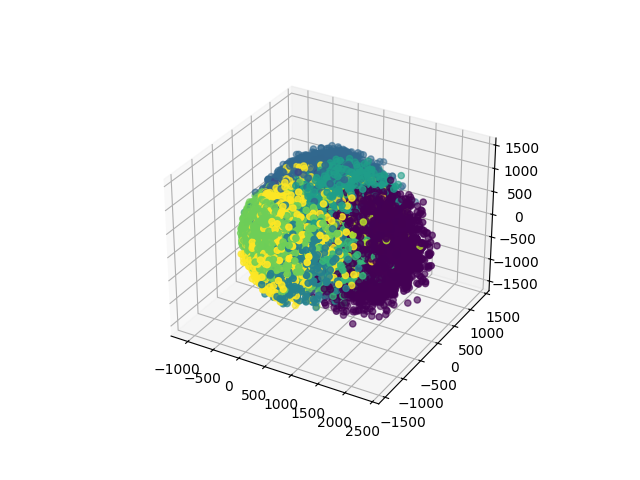
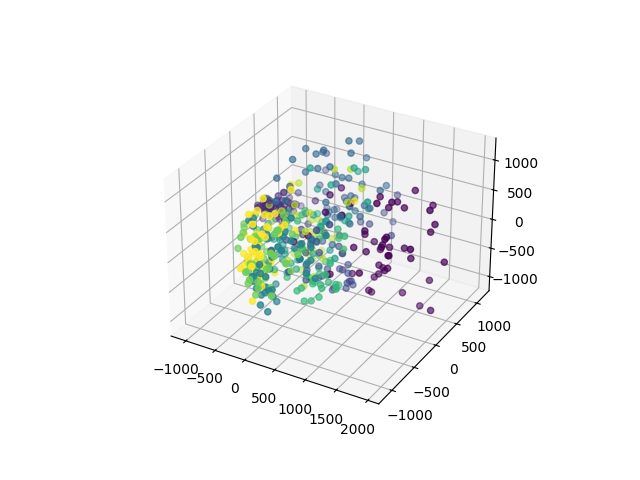
somewhat done with tsne

Changed region(s): [[0.25, 0.1875, 0.8438, 0.9062], [0.3125, 0.7812, 0.375, 0.8125], [0.25, 0.75, 0.3125, 0.7812]]

diff --git a/svm/svmnist.py b/svm/svmnist.py
@@ -1,8 +1,12 @@
 import matplotlib.pyplot as plt
 from sklearn import svm, preprocessing
 from sklearn.manifold import TSNE
+from sklearn.metrics import confusion_matrix, ConfusionMatrixDisplay
 import struct
+from matplotlib import offsetbox
 import numpy as np
+
+
 
 def extract_images(file_path):
     with open(file_path, 'rb') as file:
@@ -34,6 +38,7 @@ def flatten_images(list_img):
         flattened_list.append(tmp)
     return flattened_list
 
+
 def extract_labels(file_path):
     with open(file_path, 'rb') as file:
         magic_number = struct.unpack('>I', file.read(4))[0]  # Lire le magic number
@@ -46,18 +51,43 @@ def extract_labels(file_path):
         
         return labels
 
+
+def plot_embedding(X, images, labels, ax):
+    for digit in range(10):
+        ax.scatter(*X[np.array(labels) == digit].T,
+                   marker=f'${digit}$',
+                   s=60,
+                   color=plt.cm.Dark2(digit),
+                   alpha=0.425,
+                   zorder=2)
+    shown_images = np.array([[0.0,0.0]])
+    for i in range(X.shape[0]):
+        dist = np.sum((X[i] - shown_images)**2, 1)
+        if np.min(dist) < 5:
+            continue
+        shown_images = np.concatenate([shown_images, [X[i]]], axis=0)
+        imagebox = offsetbox.AnnotationBbox(
+                offsetbox.OffsetImage(images[i], cmap = plt.cm.gray_r), X[i]
+                )
+        imagebox.set(zorder=1)
+        ax.add_artist(imagebox)
+
+
+    
+
+
 train_pathi = '/home/ross/Coding/ML_course/mnistdb/trainimages'
 train_pathl = '/home/ross/Coding/ML_course/mnistdb/trainlabels'
 test_pathi = '/home/ross/Coding/ML_course/mnistdb/testimages'
 test_pathl = '/home/ross/Coding/ML_course/mnistdb/testlabels'
 
-n_samples = 1000
-train_images = extract_images(train_pathi)
+n_samples = 2000
+train_images = extract_images(train_pathi)[:n_samples]
 train_labels = extract_labels(train_pathl)[:n_samples]
-test_images = extract_images(test_pathi)
-test_labels = extract_labels(test_pathl)[:n_samples]
-train_flat_img = np.array(flatten_images(train_images)[:n_samples])
-test_flat_img = np.array(flatten_images(test_images)[:n_samples])
+test_images = extract_images(test_pathi)[:n_samples//4]
+test_labels = extract_labels(test_pathl)[:n_samples//4]
+train_flat_img = np.array(flatten_images(train_images))
+test_flat_img = np.array(flatten_images(test_images))
 
 
 scaler = preprocessing.StandardScaler()
@@ -66,46 +96,80 @@ X_test_scaled = scaler.transform(test_flat_img)
 
 
 ##########################
-## naive svm only approach
+## svm only approach
 ##########################
-svc = svm.SVC(kernel='linear', decision_function_shape='ovo')
+
+
+svc = svm.SVC(kernel='rbf', decision_function_shape='ovo')
 svc.fit(X_train_scaled, train_labels)
 predicted = svc.predict(X_test_scaled)
-print(predicted)
-print(test_labels)
-print([int(abs(predicted[i]-test_labels[i])) for i in range(len(predicted))])
-
+cm = confusion_matrix(test_labels, predicted, labels=svc.classes_)
+disp = ConfusionMatrixDisplay(confusion_matrix=cm, display_labels=svc.classes_)
+disp.plot()
+plt.show()
 
 
 
 #########################
 ## tsne then svm approach
+##
+## note : tsne has to be
+## applied on train and
+## test at the same time
+## bcz it is non 
+## deterministic
+## as such it is not
+## paralleizable
 #########################
-embedder = TSNE(n_components=2, learning_rate='auto', init='random', perplexity=30)
-X_train_embedded = embedder.fit_transform(X_train_scaled)
-X_test_embedded = embedder.fit_transform(X_test_scaled)
+
+
+embedder = TSNE(n_components=2, learning_rate='auto', init='random', perplexity=100)
+
+
+
+X_train_and_test = embedder.fit_transform(np.vstack((X_train_scaled, X_test_scaled)))
+X_train_embedded = X_train_and_test[:len(train_flat_img),:]
+X_test_embedded = X_train_and_test[len(train_flat_img):,:]
+
 
 svc.fit(X_train_embedded, train_labels)
 predicted = svc.predict(X_test_embedded)
+cm = confusion_matrix(test_labels, predicted, labels=svc.classes_)
+disp = ConfusionMatrixDisplay(confusion_matrix=cm, display_labels=svc.classes_)
+
 
 
 fig = plt.figure()
-subfigs = fig.subfigures(1,3)
+subfigs = fig.subfigures(1,4, wspace=0.07)
 axL = subfigs[0].subplots(1,1)
 subfigs[0].suptitle('train tsne')
 axL.scatter(X_train_embedded[:,0], X_train_embedded[:,1] , c=train_labels)
-axM = subfigs[1].subplots(1,1)
-subfigs[1].suptitle('test fittted with train')
-axM.scatter(X_test_embedded[:,0], X_test_embedded[:,1] , c=predicted)
+
 axR = subfigs[2].subplots(1,1)
 subfigs[2].suptitle('test actual labels')
 axR.scatter(X_test_embedded[:,0], X_test_embedded[:,1] , c=test_labels)
-fig.suptitle('diferent manifolds')
+
+axM = subfigs[1].subplots(1,1)
+subfigs[1].suptitle('all actual labels with tsne')
+axM.scatter(X_train_and_test[:,0], X_train_and_test[:,1] , c=train_labels+test_labels)
+
+axRR = subfigs[3].subplots(2,1)
+subfigs[3].suptitle('predictions')
+disp.plot(ax=axRR[1])
+axRR[0].scatter(X_test_embedded[:,0], X_test_embedded[:,1] , c=predicted)
 plt.show()
 
 
+fig = plt.figure()
+ax = fig.add_subplot()
+plot_embedding(X_train_embedded, train_images, train_labels, ax)
+plt.show()
+
+
+#######################
+## tsne pca approach
+#######################
 
 
 
-
-
+#TODO

diff --git a/pca/mnistpca.py b/pca/mnistpca.py
@@ -94,8 +94,10 @@ svd3D = TruncatedSVD(n_components=3, n_iter=10, random_state=5)
 U = svd3D.fit_transform(np.transpose(X_centered))
 fig = plt.figure()
 ax = fig.add_subplot(projection='3d')
-ax.scatter(U[:,0],U[:,1],U[:,2], c=labels)
+nm =500
+ax.scatter(U[:nm,0],U[:nm,1],U[:nm,2], c=labels[:nm])
 plt.savefig('3D_pca_result')
+plt.show()
 plt.close()
 
 
